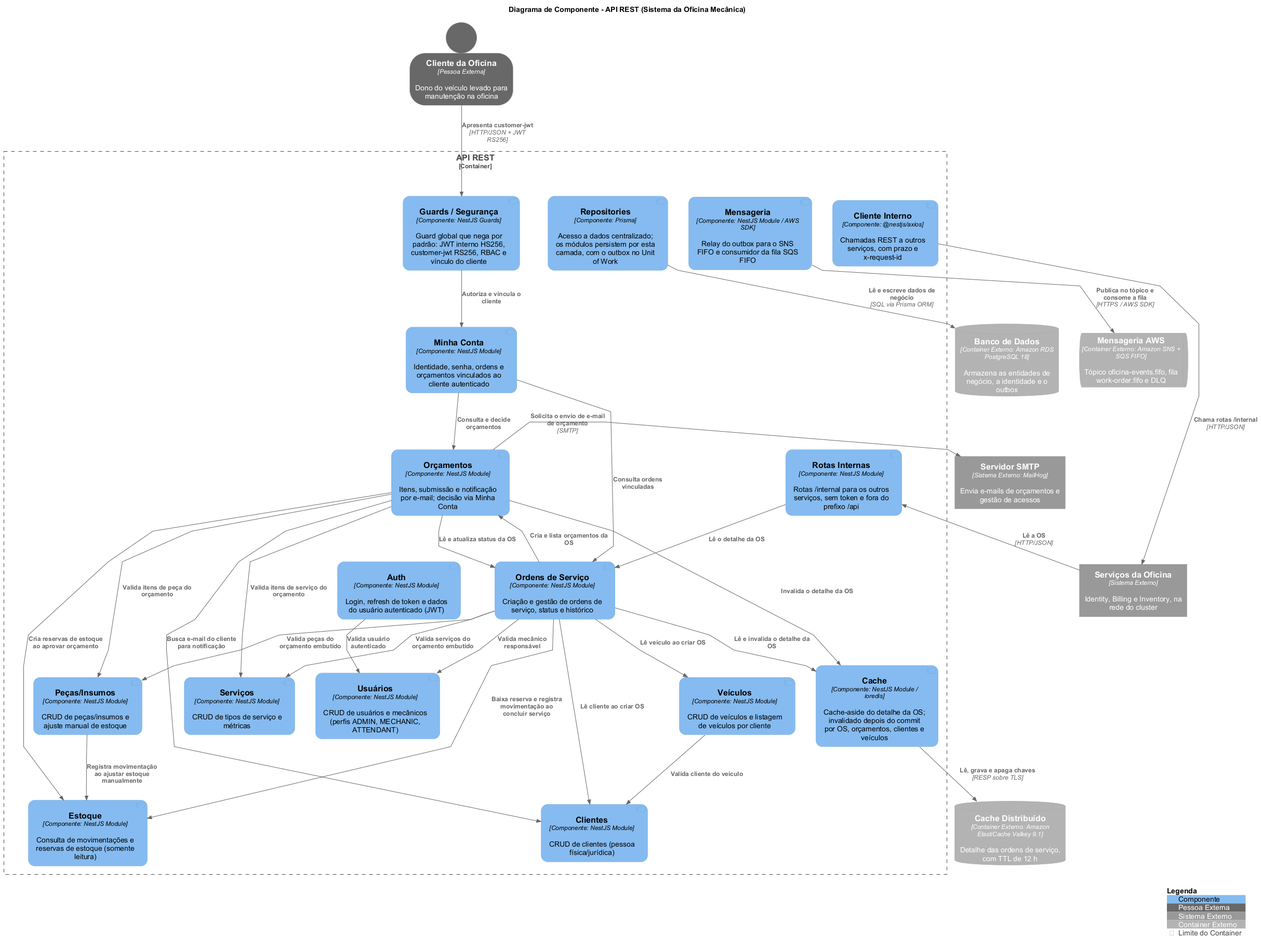
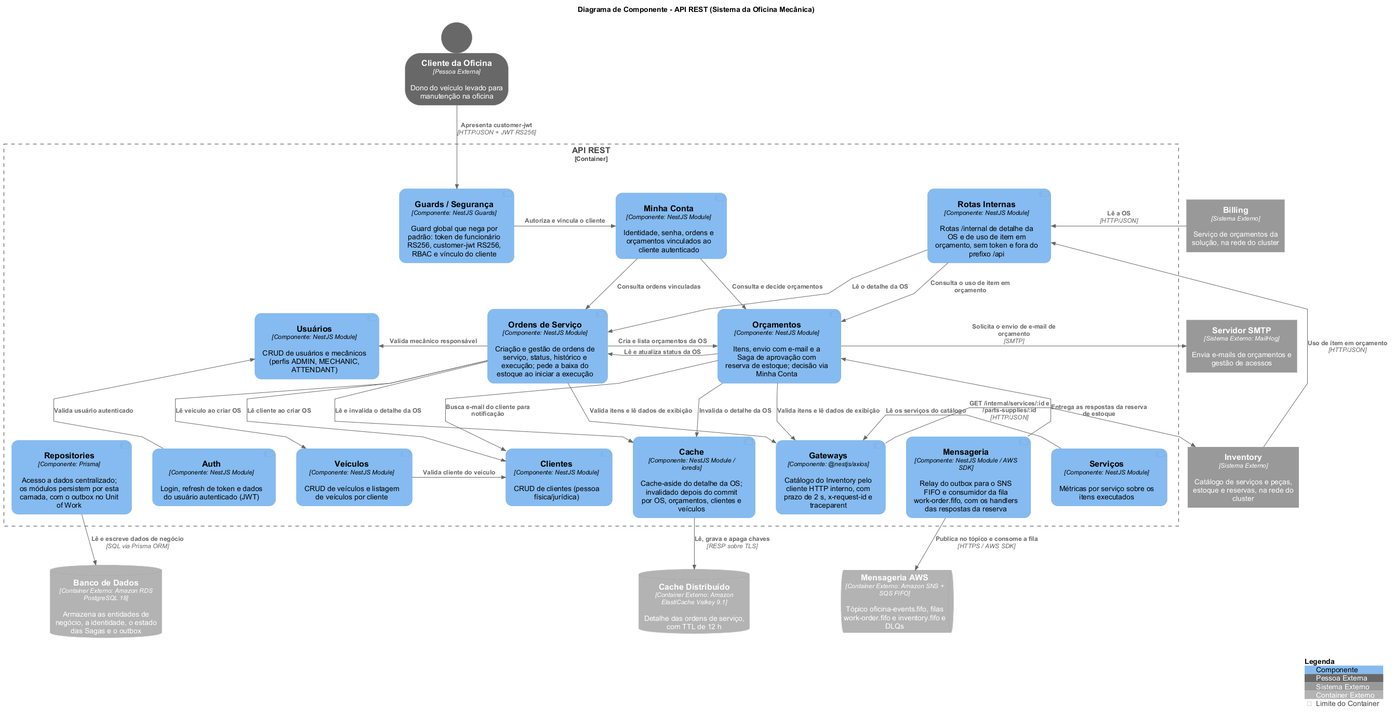
docs: update diagrams for inventory and approval saga

diff --git a/docs/c4/README.md b/docs/c4/README.md
@@ -33,6 +33,7 @@ Convenções seguidas em todos os diagramas, para leitura consistente entre os n
 - **Pessoas com silhueta.** Os atores usam a silhueta oficial de pessoa (círculo + corpo), como nos exemplos de [c4model.com/diagrams/system-context](https://c4model.com/diagrams/system-context) e [.../container](https://c4model.com/diagrams/container).
 - **Ícone de componente.** No diagrama de Componente, cada componente leva o ícone UML clássico (dois retângulos), igual à legenda de [c4model.com/diagrams/component](https://c4model.com/diagrams/component), na mesma paleta azul dos demais elementos.
 - **Tecnologia só ao cruzar fronteira.** O rótulo de tecnologia/protocolo (HTTP, JWT, SQL, SMTP…) aparece nas setas apenas a partir do nível de Container. No Contexto as setas trazem só a ação; no Componente, a tecnologia surge quando a relação cruza a fronteira da API, como no acesso do cliente, no Banco de Dados e no Servidor SMTP.
+- **Imagem com o fonte.** As imagens são geradas pelo PlantUML com a biblioteca [C4-PlantUML](https://github.com/plantuml-stdlib/C4-PlantUML) v2.14.0, e o fonte de cada diagrama fica embutido no próprio PNG.
 
 ## Nível 1 — Contexto do Sistema
 
@@ -55,33 +56,34 @@ As caixas de pessoa descrevem **quem** cada ator é (não o que faz — a ação
 
 Um zoom para dentro da fronteira do sistema: os blocos executáveis/implantáveis e como se comunicam.
 
-<p align="center"><img src="images/c4-container.png" alt="Diagrama de Container C4: o API Gateway encaminha a autenticação externa à Lambda Customer Auth e o tráfego da API ao EKS; a API REST persiste no Amazon RDS, lê e invalida o detalhe da OS no ElastiCache, publica e consome mensagens no SNS e SQS FIFO, envia e-mails ao Servidor SMTP e emite telemetria ao Datadog Agent, que a encaminha ao Datadog" width="100%"></p>
+<p align="center"><img src="images/c4-container.png" alt="Diagrama de Container C4: o API Gateway encaminha a autenticação externa à Lambda Customer Auth, as rotas de catálogo e estoque ao Inventory e o restante da API à API REST, no EKS; a API REST persiste no Amazon RDS, lê e invalida o detalhe da OS no ElastiCache, valida itens e lê o catálogo no Inventory, publica e consome mensagens no SNS e SQS FIFO, envia e-mails ao Servidor SMTP e emite telemetria ao Datadog Agent, que a encaminha ao Datadog; o Inventory consome os comandos de estoque e publica as respostas no SNS e SQS FIFO" width="100%"></p>
 
-Dentro do **Sistema da Oficina Mecânica** estão os sete blocos implantáveis ou gerenciados que participam do fluxo atual: **API Gateway**, **API REST**, **Customer Auth**, **Banco de Dados**, **Cache**, **Mensageria** e **Coleta de Telemetria**. O **Servidor SMTP** e o **Datadog** são sistemas externos. É neste nível que aparecem **tecnologia e protocolo** nas setas, como recomendado. O relay do outbox e o consumidor da fila rodam dentro do processo da API, sem worker separado; o Job de migração do Kubernetes reutiliza a mesma imagem da API e por isso não é modelado como container à parte.
+Dentro do **Sistema da Oficina Mecânica** estão os sete blocos implantáveis ou gerenciados que participam do fluxo atual: **API Gateway**, **API REST**, **Customer Auth**, **Banco de Dados**, **Cache**, **Mensageria** e **Coleta de Telemetria**. O **Inventory**, o **Servidor SMTP** e o **Datadog** são sistemas externos. O Inventory é outro serviço da solução, com banco e cache próprios, dono do catálogo de serviços e peças e do estoque; a API REST depende dele para validar itens e ler os dados de exibição deles, e para reservar o estoque na aprovação de orçamento. É neste nível que aparecem **tecnologia e protocolo** nas setas, como recomendado. O relay do outbox e o consumidor da fila rodam dentro do processo da API, sem worker separado; o Job de migração do Kubernetes reutiliza a mesma imagem da API e por isso não é modelado como container à parte.
 
 | Container | Tecnologia | Responsabilidade |
 |---|---|---|
-| **API Gateway** | AWS HTTP API | Entrada pública; encaminha `/customer-auth/login` à Lambda e `/api/{proxy+}` ao NLB interno pelo VPC Link |
+| **API Gateway** | AWS HTTP API | Entrada pública; encaminha `/customer-auth/login` à Lambda, `/api/services`, `/api/parts-supplies` e `/api/stock` ao Inventory e o restante de `/api/{proxy+}` à API REST, pelo VPC Link e pelo NLB interno |
 | **API REST** | NestJS 12 · Node.js 24 · TypeScript no EKS | Expõe `/api`, concentra a lógica de negócio em Clean Architecture e envia notificações |
 | **Customer Auth** | AWS Lambda · Node.js 24 | Valida CPF, senha e status e emite `customer-jwt` RS256 |
-| **Banco de Dados** | PostgreSQL 18 (Amazon RDS) | Armazena todas as entidades de negócio (clientes, veículos, ordens de serviço, peças/insumos, orçamentos, estoque, usuários) e o outbox das mensagens; serviço **gerenciado, fora do cluster**, alcançado pela rede a partir das subnets privadas |
+| **Banco de Dados** | PostgreSQL 18 (Amazon RDS) | Armazena as entidades de negócio da API (clientes, veículos, ordens de serviço, orçamentos, usuários), o estado das Sagas e o outbox das mensagens; serviço **gerenciado, fora do cluster**, alcançado pela rede a partir das subnets privadas |
 | **Cache** | Valkey 9.1 (Amazon ElastiCache) | Guarda o detalhe das ordens de serviço (cache-aside, TTL de 12 h); serviço gerenciado, fora do cluster, com TLS e senha |
-| **Mensageria** | Amazon SNS + SQS FIFO | Tópico `oficina-events.fifo` e fila `work-order.fifo` com DLQ, para as mensagens entre os serviços da oficina |
+| **Mensageria** | Amazon SNS + SQS FIFO | Tópico `oficina-events.fifo` e filas `work-order.fifo` e `inventory.fifo`, cada uma com a sua DLQ (fila de mensagens que falharam), para as mensagens entre os serviços da oficina |
 | **Coleta de Telemetria** | Datadog Agent no EKS | Coleta `stdout`, kubelet e OTLP da API e envia a telemetria ao Datadog |
+| **Inventory** | Serviço externo · NestJS 12 no EKS | Dono do catálogo de serviços e peças e do estoque, com a reserva por OS; atende a API REST pelas rotas `/internal` e os comandos de estoque pela fila `inventory.fifo` |
 | **Servidor SMTP** | MailHog (externo) | Recebe e entrega os e-mails de orçamento (sink SMTP de desenvolvimento) |
 | **Datadog** | Serviço externo | Apresenta dashboards, alertas, logs, métricas e traces |
 
-Os protocolos nas setas: os atores entram por **HTTPS** no API Gateway; a autenticação de cliente usa integração **AWS_PROXY** com a Lambda; a API segue por **VPC Link → NLB interno → NodePort**; API e Lambda acessam o RDS por **SQL/TLS**; a API acessa o ElastiCache por **RESP sobre TLS** e o SNS e o SQS por **HTTPS** (AWS SDK); a API notifica por **SMTP** e emite telemetria por `stdout` e **OTLP**. A estratégia Passport externa (`customer-jwt`, RS256) permanece separada da usada pelos funcionários (`jwt`, RS256 com outra chave, emissor e audiência).
+Os protocolos nas setas: os atores entram por **HTTPS** no API Gateway; a autenticação de cliente usa integração **AWS_PROXY** com a Lambda; a API segue por **VPC Link → NLB interno → NodePort**; API e Lambda acessam o RDS por **SQL/TLS**; a API acessa o ElastiCache por **RESP sobre TLS**, o Inventory por **HTTP/JSON** nas rotas `/internal` e o SNS e o SQS por **HTTPS** (AWS SDK), como o Inventory; a API notifica por **SMTP** e emite telemetria por `stdout` e **OTLP**. A estratégia Passport externa (`customer-jwt`, RS256) permanece separada da usada pelos funcionários (`jwt`, RS256 com outra chave, emissor e audiência).
 
 ## Nível 3 — Componente da API REST
 
 O zoom mais interno: as peças que compõem o container **API REST**.
 
-<p align="center"><img src="images/c4-component.png" alt="Diagrama de Componente C4 da API REST: onze módulos de negócio (Auth, Usuários, Clientes, Veículos, Serviços, Peças/Insumos, Ordens de Serviço, Orçamentos, Estoque, Minha Conta e Rotas Internas) e cinco componentes transversais (Guards/Segurança, Repositories, Cache, Mensageria e Cliente Interno); Ordens de Serviço e Orçamentos se relacionam nos dois sentidos e invalidam o Cache, os Orçamentos criam reservas no Estoque e enviam e-mail pelo Servidor SMTP, o Cliente da Oficina passa por Guards/Segurança até Minha Conta, os Serviços da Oficina leem a OS pelas Rotas Internas, e Repositories, Cache e Mensageria usam o PostgreSQL, o ElastiCache e o SNS/SQS FIFO" width="100%"></p>
+<p align="center"><img src="images/c4-component.png" alt="Diagrama de Componente C4 da API REST: nove módulos de negócio (Minha Conta, Auth, Usuários, Clientes, Veículos, Serviços, Ordens de Serviço, Orçamentos e Rotas Internas) e cinco componentes transversais (Guards/Segurança, Repositories, Cache, Mensageria e Gateways); Ordens de Serviço e Orçamentos se relacionam nos dois sentidos, invalidam o Cache e validam itens e leem os dados de exibição pelos Gateways, que chamam as rotas /internal do Inventory; Serviços lê o catálogo pelos Gateways; a Mensageria entrega aos Orçamentos as respostas da reserva de estoque; os Orçamentos enviam e-mail pelo Servidor SMTP; o Cliente da Oficina passa por Guards/Segurança até Minha Conta; o Billing lê a OS e o Inventory consulta o uso de item em orçamento pelas Rotas Internas; Repositories, Cache e Mensageria usam o PostgreSQL, o ElastiCache e o SNS/SQS FIFO" width="100%"></p>
 
-São **onze módulos de negócio** e **cinco componentes transversais**, com as dependências reais entre módulos levantadas no código. Destaques do fluxo: **Ordens de Serviço ↔ Orçamentos** se relacionam nos dois sentidos (a OS cria e lista orçamentos; o orçamento lê e atualiza o status da OS); os **Orçamentos** criam reservas no **Estoque** ao aprovar e disparam e-mail pelo **Servidor SMTP**; o **Cliente da Oficina** apresenta o `customer-jwt` ao componente **Guards/Segurança**, que o vincula ao módulo **Minha Conta**; os **Serviços da Oficina** leem a OS pelas **Rotas Internas**; e **Ordens de Serviço** e **Orçamentos** leem e invalidam o detalhe da OS no **Cache**.
+São **nove módulos de negócio** e **cinco componentes transversais**, com as dependências reais entre módulos levantadas no código. Destaques do fluxo: **Ordens de Serviço ↔ Orçamentos** se relacionam nos dois sentidos (a OS cria e lista orçamentos; o orçamento lê e atualiza o status da OS); os dois validam os itens e leem os dados de exibição deles no **Inventory**, o serviço dono do catálogo e do estoque, pelos **Gateways**; a aprovação de um orçamento com peças é a Saga de aprovação, em que o comando de reserva sai pelo outbox e a **Mensageria** entrega aos **Orçamentos** as respostas do Inventory (ver [Arquitetura](../architecture.md#aprovação-de-orçamento-com-reserva-de-estoque)); os **Orçamentos** disparam e-mail pelo **Servidor SMTP**; o **Cliente da Oficina** apresenta o `customer-jwt` ao componente **Guards / Segurança**, que o vincula ao módulo **Minha Conta**; o **Billing** lê a OS e o **Inventory** consulta o uso de item em orçamento pelas **Rotas Internas**; e **Ordens de Serviço** e **Orçamentos** leem e invalidam o detalhe da OS no **Cache**.
 
-As dependências de quase todos os módulos em relação a **Guards / Segurança** e **Repositories**, e as de **Clientes** e **Veículos** em relação ao **Cache**, estão descritas no texto desses componentes, e **não desenhadas como setas** — isso evita cerca de 18 setas repetidas que poluiriam o diagrama sem agregar informação. Como no exemplo oficial (Figura 3 do material da aula), as setas entre componentes do mesmo container não levam rótulo de tecnologia; a tecnologia aparece somente nas relações que cruzam a fronteira da API, como cliente, Banco de Dados, Cache Distribuído, Mensageria AWS, Servidor SMTP e Serviços da Oficina.
+As dependências de quase todos os módulos em relação a **Guards / Segurança** e **Repositories**, e as de **Clientes** e **Veículos** em relação ao **Cache**, estão descritas no texto desses componentes, e **não desenhadas como setas** — isso evita cerca de 18 setas repetidas que poluiriam o diagrama sem agregar informação. Como no exemplo oficial (Figura 3 do material da aula), as setas entre componentes do mesmo container não levam rótulo de tecnologia; a tecnologia aparece somente nas relações que cruzam a fronteira da API, como cliente, Banco de Dados, Cache Distribuído, Mensageria AWS, Servidor SMTP, Billing e Inventory.
 
 **Módulos de negócio**
 
@@ -91,13 +93,11 @@ As dependências de quase todos os módulos em relação a **Guards / Segurança
 | **Usuários** | NestJS Module | CRUD de usuários e mecânicos (perfis ADMIN, MECHANIC, ATTENDANT) |
 | **Clientes** | NestJS Module | CRUD de clientes (pessoa física/jurídica) |
 | **Veículos** | NestJS Module | CRUD de veículos e listagem de veículos por cliente |
-| **Serviços** | NestJS Module | CRUD de tipos de serviço e métricas |
-| **Peças/Insumos** | NestJS Module | CRUD de peças/insumos e ajuste manual de estoque |
-| **Ordens de Serviço** | NestJS Module | Criação e gestão de ordens de serviço, status e histórico |
-| **Orçamentos** | NestJS Module | Itens de orçamento, submissão e notificação por e-mail (decisão via Minha Conta) |
-| **Estoque** | NestJS Module | Consulta de movimentações e reservas de estoque (somente leitura) |
+| **Serviços** | NestJS Module | Métricas por serviço sobre os itens executados (`GET /services/:id/metrics`); o catálogo de serviços é do Inventory |
+| **Ordens de Serviço** | NestJS Module | Criação e gestão de ordens de serviço, status, histórico e execução dos itens; ao iniciar a execução de uma OS com peças, pede ao Inventory a baixa da reserva |
+| **Orçamentos** | NestJS Module | Itens de orçamento, submissão e notificação por e-mail (decisão via Minha Conta) e a Saga de aprovação com reserva de estoque no Inventory |
 | **Minha Conta** | NestJS Module | Rotas autenticadas do usuário externo: identidade, senha, ordens e orçamentos vinculados, decisão de orçamento |
-| **Rotas Internas** | NestJS Module | Rotas `/internal` para os outros serviços, sem token e fora do prefixo `/api`; delegam ao Clean Controller existente (`GET /internal/work-orders/:id`) |
+| **Rotas Internas** | NestJS Module | Rotas `/internal` para os outros serviços, sem token e fora do prefixo `/api`; delegam ao Clean Controller existente (`GET /internal/work-orders/:id`, lido pelo Billing, e o uso de serviço ou peça em orçamento, consultado pelo Inventory) |
 
 **Componentes transversais**
 
@@ -106,8 +106,8 @@ As dependências de quase todos os módulos em relação a **Guards / Segurança
 | **Guards / Segurança** | NestJS Guards | `AuthenticationGuard` global que nega por padrão (token de funcionário, salvo `@Public()` ou `@CustomerArea()`), `RolesGuard` (RBAC interno) e as estratégias separadas `jwt` (RS256, funcionário) e `customer-jwt` (RS256) |
 | **Repositories** | Prisma | Acesso a dados centralizado e global; todos os módulos de negócio persistem através dele, com o outbox gravado no mesmo Unit of Work |
 | **Cache** | NestJS Module · ioredis | Cache-aside do detalhe da OS no Valkey; invalidado depois do commit pelas escritas em OS, orçamentos, clientes e veículos |
-| **Mensageria** | NestJS Module · AWS SDK | Relay do outbox para o SNS FIFO e consumidor da fila SQS FIFO, com o span `CONSUMER` |
-| **Cliente Interno** | @nestjs/axios | Chamadas REST a outros serviços, com prazo, `x-request-id` e `traceparent` |
+| **Mensageria** | NestJS Module · AWS SDK | Relay do outbox para o SNS FIFO e consumidor da fila SQS `work-order.fifo`, com o span `CONSUMER` e os handlers das respostas da reserva de estoque (`inventory.stock.reserved` e `inventory.stock.reservation_failed`) |
+| **Gateways** | @nestjs/axios | `HttpInventoryCatalogGateway` sobre o `InternalHttpClient`: lê serviços e peças nas rotas `/internal` do Inventory, com prazo de 2 s, `x-request-id` e `traceparent` |
 
 ## Documentação relacionada
 

diff --git a/docs/sequence-diagrams.md b/docs/sequence-diagrams.md
@@ -1,8 +1,8 @@
 # Diagramas de Sequência
 
-Três fluxos centrais da aplicação, em notação UML: login interno, abertura de Ordem de Serviço, e autenticação externa do Cliente da Oficina por CPF. Gerados via draw.io a partir de Mermaid, com XML editável embutido nos PNGs.
+Quatro fluxos centrais da aplicação, em notação UML: login interno, abertura de Ordem de Serviço, autenticação externa do Cliente da Oficina por CPF e aprovação de orçamento com reserva de estoque. Gerados via draw.io a partir de Mermaid, com XML editável embutido nos PNGs.
 
-Em todos os três, existe uma camada de **Controller** duas vezes: o `Controller` do NestJS (em `infrastructure/http/controllers/`, borda HTTP — decorators de rota, DTOs, Swagger) delega para o `Controller` da Clean Architecture (em `interface-adapters/`, sem nenhuma dependência de framework), que por sua vez chama o caso de uso. Ver [ADR 0009](adr/0009-clean-architecture-ddd-em-camadas.md).
+Nos três primeiros, existe uma camada de **Controller** duas vezes: o `Controller` do NestJS (em `infrastructure/http/controllers/`, borda HTTP — decorators de rota, DTOs, Swagger) delega para o `Controller` da Clean Architecture (em `interface-adapters/`, sem nenhuma dependência de framework), que por sua vez chama o caso de uso. Ver [ADR 0009](adr/0009-clean-architecture-ddd-em-camadas.md). No da aprovação de orçamento, as duas camadas aparecem num participante só, para dar espaço às mensagens trocadas com o Inventory.
 
 ## Login interno
 
@@ -12,7 +12,7 @@ Em todos os três, existe uma camada de **Controller** duas vezes: o `Controller
 
 ## Abertura de Ordem de Serviço
 
-<p align="center"><img src="diagrams/work-order-creation-sequence.png" alt="Diagrama de sequência UML da abertura de uma Ordem de Serviço (POST /api/work-orders): WorkOrderController (NestJS), JwtAuthGuard, JwtStrategy, RolesGuard, WorkOrderController (Clean Architecture) e a transação do CreateWorkOrderUseCase — validação de cliente, veículo e mecânico atribuído, geração do número sequencial, criação da OS, histórico de status e orçamento inicial opcional" width="100%"></p>
+<p align="center"><img src="diagrams/work-order-creation-sequence.png" alt="Diagrama de sequência UML da abertura de uma Ordem de Serviço (POST /api/work-orders): WorkOrderController (NestJS), JwtAuthGuard, JwtStrategy, RolesGuard, WorkOrderController (Clean Architecture) a validação dos itens no Inventory pelo QuoteItemValidator e pelo IInventoryCatalogGateway, antes da transação (id desconhecido responde 404, Inventory fora do ar responde 503), e a transação do CreateWorkOrderUseCase — validação de cliente, veículo e mecânico atribuído, geração do número sequencial, criação da OS, histórico de status e orçamento inicial opcional" width="100%"></p>
 
 `POST /api/work-orders`, a partir do `accessToken` obtido no login — passa por `JwtAuthGuard`/`JwtStrategy` (incluindo a checagem de `passwordChangedAt`) e `RolesGuard`, depois pela validação dos itens no Inventory, o serviço dono do catálogo de serviços e peças (feita antes da transação: id desconhecido → 404, Inventory fora do ar → 503), e pela transação do `CreateWorkOrderUseCase` com todos os ramos de erro (404/409/422) até o commit.
 
@@ -23,6 +23,19 @@ Em todos os três, existe uma camada de **Controller** duas vezes: o `Controller
 A função serverless (`POST /customer-auth/login`, documentada na [ADR 0004](adr/0004-autenticacao-de-clientes.md), fora deste repositório) autentica por CPF + senha consultando o banco diretamente — nunca um proxy do login interno — e assina o `customer-jwt` com sua chave privada. A primeira chamada autenticada mostra o `AnyAuthGuard` tentando as duas estratégias Passport em sequência, e todos os ramos de rejeição da `CustomerJwtStrategy` (token sem `exp`, usuário inativo, `iat` anterior à última troca de senha, nenhum vínculo ativo) — todos convergindo para 401.
 
 Ver [Identidade externa, autenticação e autorização por vínculo](architecture.md#identidade-externa-autenticação-e-autorização-por-vínculo) para o raciocínio completo sobre por que a autorização é resolvida a cada requisição, nunca embutida no JWT.
+
+## Aprovação de orçamento com reserva de estoque
+
+<p align="center"><img src="diagrams/quote-approval-saga-sequence.png" alt="Diagrama de sequência UML da aprovação de orçamento com reserva de estoque: o usuário aprova o orçamento; o ApproveQuoteUseCase grava numa transação a OS, o orçamento aprovado, os outros orçamentos rejeitados e a Saga, e, quando o orçamento tem peças, o comando inventory.stock.reserve no outbox; o OutboxRelayService publica o comando no SNS, que o entrega ao Inventory pela fila inventory.fifo; a resposta inventory.stock.reserved chega pela fila work-order.fifo ao CompleteQuoteApprovalUseCase, que leva a OS a APPROVED e conclui a Saga; a resposta inventory.stock.reservation_failed chega ao CompensateQuoteApprovalUseCase, que desfaz a aprovação, compensa a Saga e envia um e-mail ao cliente" width="100%"></p>
+
+`PATCH /api/quotes/:id` (funcionário) ou `POST /api/me/quotes/:id/decisions` (Cliente da Oficina), aprovando um orçamento. A aprovação é uma **Saga**: uma sequência de transações locais, cada uma num serviço, ligada por mensagens, em que a falha de um passo dispara uma **compensação** que desfaz o que os passos anteriores gravaram. O work-order conduz a Saga e guarda o estado dela na tabela `saga_instances`.
+
+- **Início.** O `ApproveQuoteUseCase` grava, numa transação, a OS (com a versão, para que duas aprovações simultâneas da mesma OS não passem as duas), o orçamento `APPROVED` e os outros orçamentos abertos como `REJECTED`. Orçamento sem peças leva a OS direto a `APPROVED`. Com peças, a OS segue em `AWAITING_APPROVAL` e a mesma transação grava no **outbox** (a tabela de mensagens a publicar) o comando `inventory.stock.reserve`. A resposta é `200` com o orçamento `APPROVED`.
+- **Reserva.** O `OutboxRelayService`, o processo que publica o outbox a cada 500 ms, envia o comando ao tópico SNS `oficina-events.fifo`, que o entrega ao Inventory, o serviço dono do estoque, pela fila SQS FIFO `inventory.fifo`.
+- **Conclusão.** A resposta `inventory.stock.reserved` chega pela fila `work-order.fifo` ao `SqsConsumerService`, que chama o `CompleteQuoteApprovalUseCase`: a OS vai a `APPROVED` com os itens e o histórico, e a Saga a `COMPLETED`.
+- **Compensação.** A resposta `inventory.stock.reservation_failed` chama o `CompensateQuoteApprovalUseCase`: o orçamento volta a `SENT`, os rejeitados por ele voltam ao status anterior, o histórico da OS ganha a nota da falta de estoque, a Saga vai a `COMPENSATED` e o cliente recebe um e-mail.
+
+Uma resposta que encontra a Saga ausente ou fora de `RESERVING_STOCK` (mensagem repetida ou fora de hora) só é registrada no log. Ver [Aprovação de orçamento com reserva de estoque](architecture.md#aprovação-de-orçamento-com-reserva-de-estoque) para as regras completas, inclusive os bloqueios enquanto a reserva está em andamento.
 
 ## Referências
 

diff --git a/docs/database.md b/docs/database.md
@@ -4,7 +4,7 @@ Modelo relacional (PostgreSQL) da API, definido em [`prisma/schema.prisma`](../a
 
 ## Diagrama entidade-relacionamento
 
-<p align="center"><img src="diagrams/database-er.png" alt="Diagrama entidade-relacionamento dos 19 modelos do schema Prisma: User, Customer, Address, Vehicle, Service, PartSupply, WorkOrderStatusInfo, WorkOrder e seus itens de linha (WorkOrderService, WorkOrderPartSupply), Quote e seus itens de linha (QuoteService, QuotePartSupply), StatusHistory, StockMovement, StockReservation, UserCustomer, PasswordResetCode e OutboxMessage (tabela outbox), com tipos reais do Postgres, chaves primárias, estrangeiras e únicas" width="100%"></p>
+<p align="center"><img src="diagrams/database-er.png" alt="Diagrama entidade-relacionamento dos 20 modelos do schema Prisma: User, Customer, Address, Vehicle, WorkOrderStatusInfo, WorkOrder e seus itens de linha (WorkOrderService, WorkOrderPartSupply), Quote (com decided_by e replaced_by_quote_id) e seus itens de linha (QuoteService, QuotePartSupply), StatusHistory, SagaInstance (tabela saga_instances), UserCustomer, PasswordResetCode e OutboxMessage (tabela outbox), além das tabelas de catálogo e estoque sem uso (Service, PartSupply, StockMovement, StockReservation), às quais os itens de OS e de orçamento não têm mais chave estrangeira; com tipos reais do Postgres, chaves primárias, estrangeiras e únicas" width="100%"></p>
 
 Os tipos de coluna mostrados no diagrama são os tipos **reais gerados no Postgres** (`VARCHAR(n)`, `TIMESTAMP(3)`, `DECIMAL(10,2)`, os enums nomeados, etc.), conferidos a partir das migrations — não os tipos abstratos do schema Prisma (`String`, `Int`, `DateTime`).
 

diff --git a/docs/infra/overview.md b/docs/infra/overview.md
@@ -20,9 +20,9 @@ A solução roda inteiramente na região **`us-east-1`**, dentro de uma única V
 
 A primeira vista preserva o fluxo arquitetural resumido; a segunda detalha rede, ownership e workloads sem alterar a separação entre os recursos gerenciados e o cluster.
 
-![Arquitetura de infraestrutura: API Gateway e Lambda na entrada pública, API e Datadog Agent no EKS, Amazon RDS e Amazon ElastiCache fora do cluster, Amazon SNS e SQS FIFO para a mensageria da API e Datadog como destino da telemetria](../diagrams/infrastructure-diagram.png)
+![Arquitetura de infraestrutura: API Gateway e Lambda na entrada pública, Work Order, Inventory (o serviço dono do catálogo e do estoque, chamado pelo Work Order por HTTP) e Datadog Agent no EKS, o Amazon RDS e o Amazon ElastiCache do Work Order fora do cluster, Amazon SNS e as filas SQS FIFO work-order.fifo e inventory.fifo para a mensageria dos dois serviços e Datadog como destino da telemetria](../diagrams/infrastructure-diagram.png)
 
-![Arquitetura de referência detalhada: fluxo API Gateway, VPC Link, NLB interno e NodePort; subnets públicas e privadas; cluster EKS, Lambda, RDS, ElastiCache, SNS e SQS FIFO e serviços de suporte](../diagrams/infrastructure-details.png)
+![Arquitetura de referência detalhada: fluxo API Gateway, VPC Link, NLB interno e NodePort; subnets públicas e privadas; cluster EKS com o Work Order e o Inventory, Lambda, RDS, ElastiCache, SNS e as filas SQS FIFO work-order.fifo e inventory.fifo e serviços de suporte](../diagrams/infrastructure-details.png)
 
 ## As sete camadas de provisionamento
 

diff --git a/README.md b/README.md
@@ -337,7 +337,7 @@ A solução é composta por **sete repositórios especializados**, com responsab
 |---|---|
 | 🏛 [Arquitetura](docs/architecture.md) | Clean Architecture, DDD, ciclos de vida, UoW, Saga de aprovação com reserva de estoque, mensageria com outbox, cache, chamadas internas, exceções |
 | 🗃 [Banco de Dados](docs/database.md) | Diagrama ER, tabelas e relacionamentos, enums, convenções de modelagem |
-| 🔀 [Diagramas de Sequência](docs/sequence-diagrams.md) | Login interno, abertura de OS e autenticação externa por CPF |
+| 🔀 [Diagramas de Sequência](docs/sequence-diagrams.md) | Login interno, abertura de OS, autenticação externa por CPF e aprovação de orçamento com reserva de estoque |
 | 🔌 [Referência da API](docs/api.md) | Endpoints por domínio, perfis (RBAC), rotas /internal, formato de resposta |
 | 💻 [Como executar localmente](docs/local-setup.md) | Setup local, MailHog, Valkey, LocalStack, variáveis de ambiente, seed |
 | 🆔 [Ids canônicos do seed](docs/seed-ids.md) | UUIDs fixos de usuários, clientes, veículos, serviços e peças, compartilhados entre os serviços |

diff --git a/docs/architecture.md b/docs/architecture.md
@@ -397,6 +397,8 @@ Uma resposta que encontra a Saga inexistente ou fora de `RESERVING_STOCK` (mensa
 
 **Baixa do estoque.** O Inventory guarda a reserva por OS. Quando o primeiro serviço de uma OS com peças é iniciado e a OS vai a `IN_PROGRESS`, a mesma transação grava no outbox o comando `inventory.stock.consume`, com o id da OS no envelope e payload vazio; o Inventory dá a baixa da reserva daquela OS.
 
+Diagrama de sequência da aprovação, da reserva, da conclusão e da compensação: ver [`docs/sequence-diagrams.md`](sequence-diagrams.md#aprovação-de-orçamento-com-reserva-de-estoque).
+
 ## Aprovação de orçamento pelo Cliente da Oficina autenticado
 
 O fluxo atual exige autenticação do Cliente da Oficina por CPF e senha e mantém a decisão em um `POST` autenticado (ver [ADR 0004](./adr/0004-autenticacao-de-clientes.md)):
